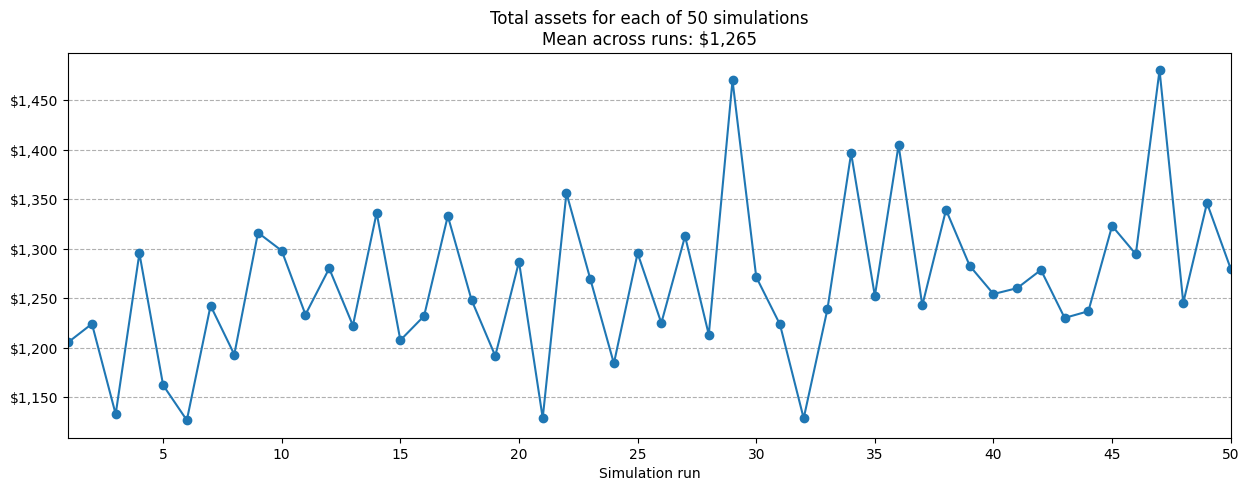
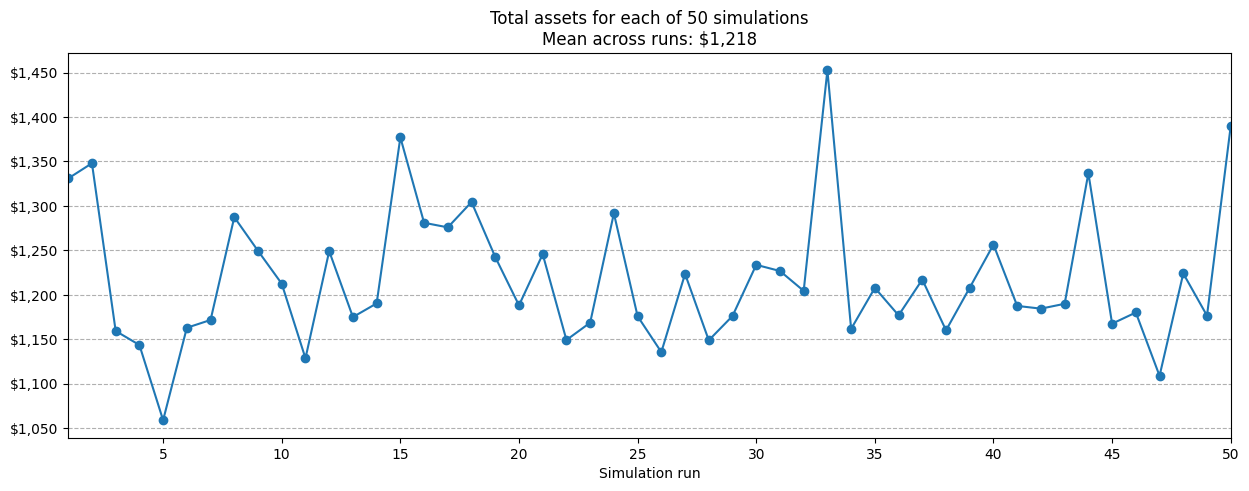
Change from median to mean in trading strategy

diff --git a/player.py b/player.py
@@ -1,5 +1,4 @@
 from random import choice, random
-from statistics import median
 
 
 class RandomPlayer:
@@ -22,7 +21,7 @@ class MainPlayer(RandomPlayer):
         if history.empty:
             return 'buy', 1.0
         current_price = history.tail(1).price_history.iloc[0]
-        median_price = median(history.price_history)
-        if current_price <= median_price:
+        mean_price = sum(history.price_history) / len(history.price_history)
+        if current_price <= mean_price:
             return 'buy', 1.0
         return 'sell', 1.0
